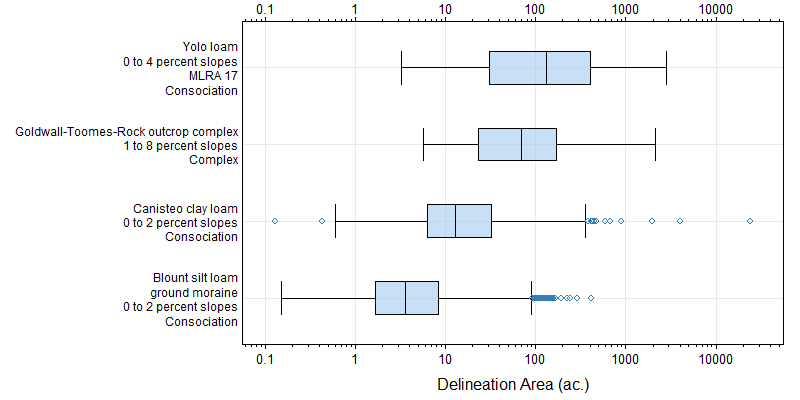
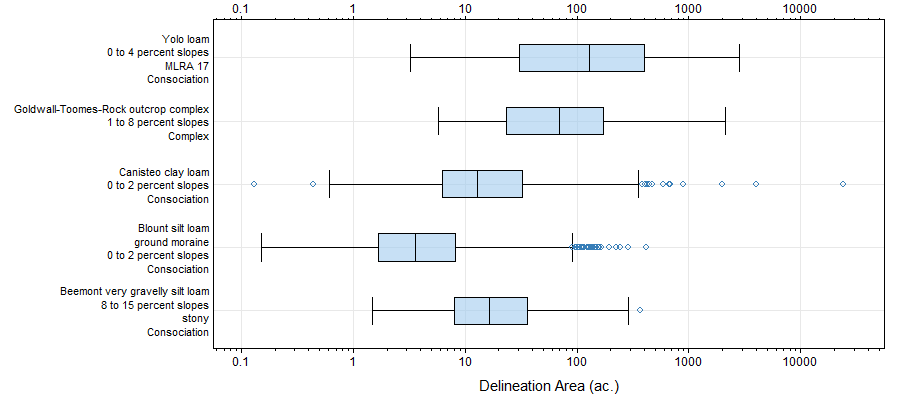
new examples, consolidation of funcitons, new summaries

diff --git a/README.md b/README.md
@@ -22,6 +22,10 @@ Example delineations or simulated patches near the MMU area would be used to ill
 ![](example-CA654.jpg)
 Here is an example from CA654 (1:24k, published 1966). The 70 ac. delineation used here is symbolized with a 24m (80 ft.) wide band. A randomly located point is buffered to symbolize a practical MMU of 7 ac. (middle of the MMU range for order 3 mapping).
 
+![](example-MO071.jpg)
+
+![](example-MO071-with-grid.jpg)
+
 
 ## Nested Grid Overlay
 
@@ -30,14 +34,17 @@ White lines are order 3 soil mapping (1:24,000 scale) [near Fresno, CA](https://
 ![](grid-size-comparison-90-270-810.jpg)
 
 
-## Three Survey Areas in CA
-
+## Three Survey Areas in CA, one in MO
+  
+   * MO071: order 3
    * CA630: order 3
    * CA792: order 3/4
    * CA790: order 4
    
    
-![](SSA-comparison.png)
+![](SSA-comparison-ac.png)
+
+![](SSA-comparison-fd.png)
 
 
 ## Representative Map Units
